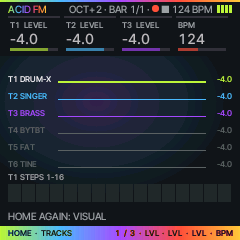
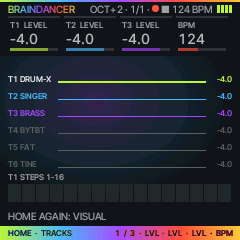
feat: the firmware is Braindancer on the device and over USB
The splash wordmark, HOME's header word, ABOUT, the crash line, the console
banner, the editor's INFO version ("BRAINDANCER v..") and the USB product
strings (BRAINDANCER; the loader BRAINDANCER UPD) say Braindancer. UF_MARK is
30 px (BRAINDANCER across the screen), the splash types a letter every 60 ms,
VISUAL's default name keeps UF_TTL. fm1diag.js accepts BRAINDANCER.

Changed region(s): [[0.0292, 0.0, 0.5542, 0.0583]]

diff --git a/web/fm1diag.js b/web/fm1diag.js
@@ -38,7 +38,7 @@ export function infoVersion(a) {
 export function isJiantInfo(a) {
   const z = a.indexOf(0); if (z < 0) return false;
   const version = String.fromCharCode(...a.slice(0, z));
-  if (!/^(FELUCCA|JIANT|ACID FM) /i.test(version)) return false;
+  if (!/^(FELUCCA|JIANT|ACID FM|BRAINDANCER) /i.test(version)) return false;
   let pos = z + 1; const engines = a[pos]; pos += 5;
   for (let i = 0; i < engines; i++) { const end = a.indexOf(0, pos); if (end < 0) return false; pos = end + 1; }
   const ntrk = a[pos], ext = a.slice(pos + 1);
@@ -52,7 +52,7 @@ export function archiveInfo(a) {
   const engines = a[pos]; pos += 5;
   for (let i = 0; i < engines; i++) { const end = a.indexOf(0, pos); if (end < 0) throw new Error("Invalid INFO"); pos = end + 1; }
   const ext = a.slice(pos + 1);
-  const supported = /^(FELUCCA|JIANT|ACID FM) /i.test(version) && ext[0] === 16 && ext[1] === 0x55 && ext[2] === 1 &&
+  const supported = /^(FELUCCA|JIANT|ACID FM|BRAINDANCER) /i.test(version) && ext[0] === 16 && ext[1] === 0x55 && ext[2] === 1 &&
     ext[4] === 0x4d && ext[5] === 1 && ext[8] === 0x42 && ext[9] === 1 && !!(ext[10] & 1);
   return { version, supported };
 }

diff --git a/tests/ui_test.c b/tests/ui_test.c
@@ -11216,7 +11216,7 @@ static uint32_t head_px(uint16_t c, uint32_t x0, uint32_t x1)   /* pixels of col
 static int test_ux_home_head(void)
 {
     int bad = 0, ok;
-    int32_t lx, lim = 8 + text_w(&UF_HDR, "ACID FM") + 6;
+    int32_t lx, lim = 8 + text_w(&UF_HDR, "BRAINDANCER") + 6;
     char b[40];
     uint16_t bc;
     ui_power_on(); frame();
@@ -11248,10 +11248,10 @@ static int test_ux_home_head(void)
     chain.running = 1; chain.row = 0; chain.config.row[0].slot = 0; chain.config.row[0].bars = 64; chain.remaining = 2;
     (void)ux_home_head(UXH_TRACKS, 0, &lx);
     ux_home_left(b, sizeof b, UXH_TRACKS, 0);
-    printf("ui:   (HOME header, the longest: \"%s\" + REC + transport + LOCK + battery from x %d; ACID FM ends at %d; left out: %u)\n", b, lx, lim - 6, ux_head_drop);
-    ok = lx >= lim && ux_head_drop == 0u && strstr(b, "63/64") != 0;   /* (all of it: nothing left out) */
+    printf("ui:   (HOME header, the longest: \"%s\" + REC + transport + LOCK + battery from x %d; BRAINDANCER ends at %d; left out: %u)\n", b, lx, lim - 6, ux_head_drop);
+    ok = lx >= lim && ux_head_drop <= 2u && ux_head_drop > 0u;   /* (Braindancer 0.7: the longer word leaves no room for the whole of it: the BAR / where is left out, the header never overlaps) */
     song.octave = 1; (void)ux_home_head(UXH_TRACKS, 0, &lx);        /* (OCT+1: the widest octave) */
-    ok &= lx >= lim && ux_head_drop == 0u;
+    ok &= lx >= lim && ux_head_drop <= 2u;
     song.octave = -3;
     ui.force = 1; frame();
     ok &= ux_home_at(UXH_TRACKS) && head_px(UX_ACCENT, 217u, 220u) > 0u && head_px(UX_LINE, 221u, 232u) > 0u &&   /* (low: */
@@ -11263,7 +11263,7 @@ static int test_ux_home_head(void)
     ok &= ux_home_at(UXH_VISUAL) && head_px(UX_ACCENT, 120u, 200u) > 6u;   /* (another track armed: the ring) */
     (void)ux_home_head(UXH_VISUAL, 0, &lx);
     ok &= lx >= lim && ux_head_drop == 0u;
-    bad += check("I3 HOME header: REC (dot / ring), LOCK, low battery drawn on TRACKS and VISUAL; the longest fits beside ACID FM", ok);
+    bad += check("I3 HOME header: REC (dot / ring), LOCK, low battery drawn on TRACKS and VISUAL; the longest fits beside BRAINDANCER", ok);
     chain.running = 0; song.playing = 0; song.rec = 0; song.octave = 0; song.g[G_BPM] = 120;
     ui_power_on();
     return bad;
@@ -11379,7 +11379,7 @@ static int test_ux_visual(void)
 
     ui_power_on(); frame(); press(B_HOME); frame();
     f = ux_vis_name(b);
-    ok = str_eq(b, "ACID FM") && f == &UF_TTL;                      /* no name: ACID FM */
+    ok = str_eq(b, "BRAINDANCER") && f == &UF_TTL;                      /* no name: BRAINDANCER */
     str_cpy(proj_name, "VELVET PYLON", sizeof proj_name);
     f = ux_vis_name(b);
     ok &= str_eq(b, "VELVET PYLON") && text_w(f, b) <= 200;       /* (a long name: no title edge to edge) */
@@ -11418,7 +11418,7 @@ static int test_ux_visual(void)
     press(B_HOME); press(B_HOME); frame();                          /* (GEN, then TRACKS: its footer as before) */
     ux_home_foot(ft, sizeof ft);
     ok &= ux_home_at(UXH_TRACKS) && str_eq(ft, "1 / 3 \xB7 LVL \xB7 LVL \xB7 LVL \xB7 BPM");   /* (3b task 10: KNOB 4 the tempo) */
-    bad += check("3a VISUAL: the name (ACID FM when none; fitted), SECTION . BAR, footer M1..M4, a macro's turn in the status", ok);
+    bad += check("3a VISUAL: the name (BRAINDANCER when none; fitted), SECTION . BAR, footer M1..M4, a macro's turn in the status", ok);
 
     {   /* (polish) ring k its track's (T1 outside .. T6 at the centre): bright on its hits, eased, a silent track's dim */
         uint32_t i, b0;
@@ -11433,8 +11433,16 @@ static int test_ux_visual(void)
         }
         t1 = ux_px(120u, UX_Y_PANEL + 9u);                          /* (T1's ring, the outermost, r ~65; T6's, r ~9.5: under */
         t6 = ux_px(120u, UX_Y_PANEL + 65u);                         /* the name band's scrim) */
-        ok = uxv.b[0] > 120u && uxv.b[2] > 60u && uxv.b[5] == 0u && uxv.b[1] == 0u;
-        ok &= ux_cdist(t6, ux_mix(UX_BG, UX_LINE, 40)) < 8u && ux_cdist(t1, UX_LINE) > 20u;
+        {   /* (Braindancer 0.7: a letter of BRAINDANCER may stand at x 120: the centre row's nearest pixel clear of ink) */
+            uint32_t x, best = 255u;
+            for (x = 110u; x < 131u; x++) {
+                uint32_t d = ux_cdist(ux_px(x, UX_Y_PANEL + 65u), ux_mix(UX_BG, UX_LINE, 40));
+                if (d < best) best = d;
+            }
+            ok = best < 8u && ux_cdist(t6, UX_BG) < 255u;
+        }
+        ok &= uxv.b[0] > 120u && uxv.b[2] > 60u && uxv.b[5] == 0u && uxv.b[1] == 0u;
+        ok &= ux_cdist(t1, UX_LINE) > 20u;
         ok &= ux_px(2u, UX_Y_PANEL + 1u) == UX_BG && ux_px(237u, UX_Y_PANEL + 148u) == UX_BG;   /* (the corners: dark) */
         for (i = 0; i < 6u; i++) {                                  /* each track its own colour, neighbours clearly apart */
             uint32_t c;
@@ -21449,7 +21457,7 @@ static int test_u5_about(void)
     for (r = 0; r < 74; r++)
         for (c = ABOUT_QR_X; c < ABOUT_QR_X + 74; c++)
             ok &= cv_px[r * 240 + c] == host_screen[(UX_Y_KNOBS + ABOUT_Y_QR + r) * 240 + c];
-    bad += check("ACID FM 3c-2 task 5: ABOUT's first screen: the ACID FM wordmark, version, built on JIANT FM and Felucca, AUDIO LOAD, CPU TEST, the QR", ok);
+    bad += check("ACID FM 3c-2 task 5: ABOUT's first screen: the BRAINDANCER wordmark, version, built on JIANT FM and Felucca, AUDIO LOAD, CPU TEST, the QR", ok);
     for (r = 0; r < 20; r++)
         turn(EN_SELECT, 5);
     frame();
@@ -21745,6 +21753,41 @@ static int test_u9_menu(void)
     return bad;
 }
 
+/* (Braindancer 0.7, Task 1) the name on the device: the splash draws BRAINDANCER, its ink inside x 8..231; HOME's header word is
+ * BRAINDANCER (the battery keeps its room: test_ux_home_head's lim); the typed-on frames never leave ink to the right of the
+ * letters typed */
+static int test_r1_name(void)
+{
+    int bad = 0, ok = 1;
+    int32_t r, c, lo = 240, hi = -1;
+    ok &= sizeof SPL_MARK - 1 == 11u && !memcmp(SPL_MARK, "BRAINDANCER", 11);
+    ui_prefs |= PREF_ANIM_OFF;
+    draw_splash();
+    ui_prefs &= ~PREF_ANIM_OFF;
+    for (r = 0; r < SPL_CH; r++)                        /* the wordmark's rows: the strip's 10 .. 10 + UF_MARK.h + 10 */
+        for (c = 0; c < 240; c++)
+            if (r >= 6 && r < 66 && swap16(host_screen[(SPL_Y + r) * 240 + c]) != UX_BG) {
+                if (c < lo) lo = c;
+                if (c > hi) hi = c;
+            }
+    printf("ui:   (splash wordmark ink x %d..%d)\n", lo, hi);
+    ok &= lo >= 8 && hi <= 231 && hi - lo > 150;
+    bad += check("R1 the splash draws BRAINDANCER, its ink inside x 8..231", ok);
+    {
+        int32_t lx, x0 = 8 + text_w(&UF_HDR, "ACID FM") + 2, x1 = 8 + text_w(&UF_HDR, "BRAINDANCER") - 2, ink = 0;
+        ui_power_on(); frame();
+        ui.force = 1; frame();
+        for (r = 3; r < 14; r++)                        /* HOME's header: the word runs on past where ACID FM ended */
+            for (c = x0; c < x1; c++)
+                ink += swap16(host_screen[r * 240 + c]) != UX_BG;
+        (void)ux_home_head(UXH_TRACKS, 0, &lx);
+        ok = ux_home_at(UXH_TRACKS) && ink > 40 && x1 > x0 + 20 && lx >= x1 + 8 && 8 + text_w(&UF_HDR, "BRAINDANCER") <= 232 - UXH_BAT_W - 4 - 40;
+    }
+    bad += check("R1 HOME's header word is BRAINDANCER and leaves its room (the battery, the transport)", ok);
+    ui_power_on();
+    return bad;
+}
+
 int main(void)
 {
     setvbuf(stdout, NULL, _IONBF, 0);
@@ -21985,6 +22028,7 @@ int main(void)
     bad += test_u5_knobs();
     bad += test_u5_more();
     bad += test_u5_about();
+    bad += test_r1_name();
     bad += test_u6_row();                               /* (ACID FM 3c-2 task 6) */
     bad += test_u7_gen();                               /* (ACID FM 3c-2 task 7) */
     bad += test_u7_demo();

diff --git a/firmware/src/ux_splash.c b/firmware/src/ux_splash.c
@@ -1,7 +1,7 @@
 /* SPDX-License-Identifier: GPL-3.0-only */
 /* Copyright (C) 2026 NorfolkHacker */
-/* ACID FM's power-on splash (spec 4.5, the wordmark; main.c fm1_main and web/emu felucca_web.c call it): the blend line,
- * 3 px at y 96, sweeps across left to right; ACID FM in UF_MARK gradient text types on under it a letter at a time; then
+/* Braindancer's power-on splash (spec 4.5, the wordmark; main.c fm1_main and web/emu felucca_web.c call it): the blend line,
+ * 3 px at y 96, sweeps across left to right; BRAINDANCER in UF_MARK gradient text types on under it a letter at a time; then
  * the version and "BY NORFOLKHACKER" in UF_LBL MID. SPL_WRITE ms of that (splash_write, main.c's loop), SPL_HOLD ms shown
  * whole. MENU > ANIMATION OFF draws the last frame at once. One 240 x 108 strip a step, in the constant ux_theme colours:
  * nothing but what settings_init (before the splash) gives. Included by ui_draw.c where JIANT's signature splash was
@@ -12,18 +12,19 @@
 #define SPL_CH 108                                  /* the strip: line at 0 .. 2, wordmark 10 .. 61, labels 70 and 84 */
 #define SPL_LINE_MS 600u                            /* the line across */
 #define SPL_TYPE0 150u                              /* the first letter */
-#define SPL_TYPE_MS 100u                            /* a letter every .. */
+#define SPL_TYPE_MS 60u                             /* a letter every .. (Braindancer 0.7: eleven letters in the same SPL_WRITE; was 100, seven) */
+#define SPL_MARK_DY 10                              /* (Braindancer 0.7) UF_MARK is 30 px (was 52: BRAINDANCER across the screen): the line sits 10 px lower in its band */
 #define SPL_LBL_MS 850u                             /* the labels appear */
-static const char SPL_MARK[] = "ACID FM";
+static const char SPL_MARK[] = "BRAINDANCER";
 static uint8_t spl_anim;                            /* main.c: 1 = the splash to be animated (splash_write) */
 static uint32_t spl_last = ~0u;                     /* the last frame drawn (its state), so a held splash is not sent again */
 
-/* the wordmark, ACID FM in UF_MARK gradient text centred across, its line's top at canvas y (on UX_BG); its left x. (ACID FM 3c-2
+/* the wordmark, BRAINDANCER in UF_MARK gradient text centred across, its line's top at canvas y (on UX_BG); its left x. (ACID FM 3c-2
  * task 5) ABOUT's first screen draws it too (ui_menu.c about_top) */
 static int32_t spl_mark(int32_t y)
 {
     int32_t wx = ink_in(&UF_MARK, SPL_MARK, 240);
-    ux_text_grad(wx, y, &UF_MARK, SPL_MARK, UX_BG);    /* (the gradient spans the whole word: the letters come out of it) */
+    ux_text_grad(wx, y + SPL_MARK_DY, &UF_MARK, SPL_MARK, UX_BG);    /* (the gradient spans the whole word: the letters come out of it) */
     return wx;
 }
 static void splash_frame(uint32_t ms)
@@ -51,7 +52,7 @@ static void splash_frame(uint32_t ms)
                 pre[k] = SPL_MARK[k];
             pre[n] = 0;
             x = wx + text_w(&UF_MARK, pre);
-            cv_rect(x, 10, 240 - x, UF_MARK.h, UX_BG);
+            cv_rect(x, 10 + SPL_MARK_DY, 240 - x, UF_MARK.h, UX_BG);
         }
     }
     if (ms >= SPL_LBL_MS) {

diff --git a/firmware/src/ux_home.c b/firmware/src/ux_home.c
@@ -238,7 +238,7 @@ static uint32_t ux_home_head(uint32_t p, int draw, int32_t *left)
     char tr[16], lf[40];
     uint16_t bc;
     uint32_t k, segs = ux_bat_segs(&bc), drop, rec = (song.rec >> song.sel) & 1u ? 2u : song.rec != 0u;
-    int32_t ty = 3, y0 = ty + UF_HDR_CAP_Y, x = 232 - UXH_BAT_W - 4, lim = 8 + text_w(&UF_HDR, "ACID FM") + 6, xt, xl;
+    int32_t ty = 3, y0 = ty + UF_HDR_CAP_Y, x = 232 - UXH_BAT_W - 4, lim = 8 + text_w(&UF_HDR, "BRAINDANCER") + 6, xt, xl;
     int lock = (ui_prefs & PREF_BPM_LOCK) != 0;
     ux_transport(tr, sizeof tr);
     if (lock) x -= UXH_LOCK_W + 2;
@@ -255,7 +255,7 @@ static uint32_t ux_home_head(uint32_t p, int draw, int32_t *left)
         cv_begin(240, UX_H_LINE + UX_H_HEAD, UX_BG);
         ux_topline();
         GFX_HOOK_ALIGN(0, UX_H_LINE, 0, UX_H_LINE + UX_H_HEAD, AL_V, "header left");
-        ux_text_grad(8, ty, &UF_HDR, "ACID FM", UX_BG);
+        ux_text_grad(8, ty, &UF_HDR, "BRAINDANCER", UX_BG);
         for (k = 0; k < 4u; k++)                        /* the battery */
             cv_rect(sx + (int32_t)k * 4, y0, 3, UF_HDR_CAP_H, k < segs ? bc : UX_LINE);
         if (lock) {                                     /* BPM LOCK: a shackle over a body, 7 x 8 */
@@ -503,7 +503,7 @@ static uint32_t ux_since_shed(void)
 #define UXV_SWELL 160u                                  /* a ring this bright (a hit) is a px wider each side */
 #define UXV_INTRO "RINGS: T1 OUTSIDE \x86 T6 CENTRE"     /* (UF_HDR's arrow, 0x86) */
 #define UXV_INTRO_MS 4000u
-#define UXV_TTL_W 200                                   /* the name in UF_TTL up to 200 px (20 px each side), else UF_VAL */
+#define UXV_TTL_W 224                                   /* the name in UF_TTL up to 224 px (8 px each side; Braindancer 0.7: the default name BRAINDANCER is 221), else UF_VAL */
 static const char *ux_vis_legend(void)                  /* the ring legend while it shows (UXV_INTRO_MS, once), else NULL */
 {
     if (!uxv.intro) {
@@ -561,7 +561,7 @@ static const aafont_t *ux_vis_name(char *b)
     uint32_t i;
     project_cur_name(s);
     if (!s[0])
-        str_cpy(s, "ACID FM", sizeof s);
+        str_cpy(s, "BRAINDANCER", sizeof s);
     for (i = 0; s[i]; i++) {
         char c = s[i];
         b[i] = (c >= 'A' && c <= 'Z') || (c >= '0' && c <= '9') || c == ' ' || c == '-' || c == '.' || c == '/' ? c : ' ';

diff --git a/tools/gen_aa_font.py b/tools/gen_aa_font.py
@@ -8,7 +8,7 @@ tools/build.py generate() with --preset inter-tight).
 
   gen_aa_font.py OUT.h --preset standin|inter-tight|chakra-petch [--tracking EM] [--gamma G] [--kern-min N]
   gen_aa_font.py ux_fonts.h --preset acid   (ACID FM: UF_LBL 8 px @600, UF_HDR 10 @500, UF_VAL 14 @500, UF_TTL 32 @700,
-                UF_MARK 52 @700 of Inter Tight; code 0x86 = the arrow U+2192, 0x87 / 0x88 = play U+25B6 / stop U+25A0
+                UF_MARK 30 @700 of Inter Tight; code 0x86 = the arrow U+2192, 0x87 / 0x88 = play U+25B6 / stop U+25A0
                 (UF_HDR, with ' ( ) , = > [ ] and the ellipsis 0x85 of the status line's messages); the ASCII range
                 of LBL / TTL / MARK is the space only, their characters are extras)
   gen_aa_font.py OUT.h --face NAME=FONT[#index]:PX:FIRST-LAST[+0xNN,...] ...   (explicit faces)
@@ -74,7 +74,7 @@ UF_HDR = UF_TEXT + "\u25b6\u25a0\u25cf\u25cb\u25c6" + "(),=>[]\u2192\u2026?;"   
                                    # (code 0x88), (3c-1 task 8) the dots and the outside clock's diamond (0x89 0x8A 0x8B: ux_widgets.h); the status line's messages: ' ( ) , = > [ ], the arrow (0x86), the ellipsis
                                    # (0x85, ui_say's cut) (tests/ux_msg_scan.py: every message literal drawn there has its glyphs)
 UF_TTL = " -./0123456789ABCDEFGHIJKLMNOPQRSTUVWXYZ"
-UF_MARK = " ACDFIM"                # the wordmark's letters only
+UF_MARK = " ABCDEINR"              # the wordmark's letters only (Braindancer 0.7: BRAINDANCER)
 L_CHARS = " #+-./0123456789ABCDEFGHIJKLMNOPQRSTUVWXY"
 
 
@@ -111,7 +111,7 @@ def preset(name):
                 ("HDR", v + "@500", 10, (32, 32), sparse(UF_HDR), 0.0, 1),
                 ("VAL", v + "@500", 14, (32, 32), sparse(UF_TEXT), 0.0, 1),
                 ("TTL", v + "@700", 32, (32, 32), sparse(UF_TTL), 0.0, 1),
-                ("MARK", v + "@700", 52, (32, 32), sparse(UF_MARK), 0.0, 1)]
+                ("MARK", v + "@700", 30, (32, 32), sparse(UF_MARK), 0.0, 1)]
     raise SystemExit(f"unknown preset {name}")
 
 

diff --git a/tests/usb_desc_test.c b/tests/usb_desc_test.c
@@ -127,16 +127,16 @@ int main(void)
               le16(dev + 2) == 0x0200 && !dev[4] && !dev[5] && dev[6] == (T_LAYOUT == 2));
     check("VID 1209 PID 0001, strings 1 4 (iProduct off Felucca's index 2), one configuration",
           le16(dev + 8) == 0x1209 && le16(dev + 10) == 1 && dev[14] == 1 && dev[15] == 4 && dev[17] == 1);
-    {   /* (ACID FM 0.1) the names a host reads: manufacturer "NorfolkHacker", product "ACID FM" (UTF-16LE), nothing at
+    {   /* (ACID FM 0.1) the names a host reads: manufacturer "NorfolkHacker", product "BRAINDANCER" (UTF-16LE), nothing at
          * index 2 (Windows keeps older names under index 2's name GUID), no serial */
-        static const uint8_t PROD[16] = {16, 3, 'A', 0, 'C', 0, 'I', 0, 'D', 0, ' ', 0, 'F', 0, 'M', 0};
+        static const uint8_t PROD[24] = {24, 3, 'B', 0, 'R', 0, 'A', 0, 'I', 0, 'N', 0, 'D', 0, 'A', 0, 'N', 0, 'C', 0, 'E', 0, 'R', 0};
         static const uint8_t MANU[28] = {28, 3, 'N', 0, 'o', 0, 'r', 0, 'f', 0, 'o', 0, 'l', 0, 'k', 0, 'H', 0, 'a', 0,
                                          'c', 0, 'k', 0, 'e', 0, 'r', 0};
         const uint8_t *s;
         uint16_t sl;
         check("string 0: US English", get_desc(0x0300, &s, &sl) && sl == 4 && s[2] == 0x09 && s[3] == 0x04);
         check("string 1 (manufacturer): \"NorfolkHacker\"", get_desc(0x0301, &s, &sl) && sl == 28 && !memcmp(s, MANU, 28));
-        check("string 4 (product): \"ACID FM\"", get_desc(0x0304, &s, &sl) && sl == 16 && !memcmp(s, PROD, 16));
+        check("string 4 (product): \"BRAINDANCER\"", get_desc(0x0304, &s, &sl) && sl == 24 && !memcmp(s, PROD, 24));
         check("strings 2 (the old product) and 3: none", !get_desc(0x0302, &s, &sl) && !get_desc(0x0303, &s, &sl));
         check("no serial number (iSerial 0)", dev[16] == 0);
     }

diff --git a/firmware/src/usb.c b/firmware/src/usb.c
@@ -485,15 +485,15 @@ static uint8_t usb_cdc_on = FELUCCA_CDC_DEFAULT != 0;      /* the console is pre
 #define UAC_AS_IF (AUD_IF + 2u)
 static const uint8_t STR0[4] = {4, 3, 0x09, 0x04};
 static const uint8_t STR1[] = {28, 3, 'N', 0, 'o', 0, 'r', 0, 'f', 0, 'o', 0, 'l', 0, 'k', 0, 'H', 0, 'a', 0, 'c', 0,
-                               'k', 0, 'e', 0, 'r', 0};   /* (ACID FM 0.1) the installers match /acid ?fm|jiant|felucca/ */
+                               'k', 0, 'e', 0, 'r', 0};   /* (ACID FM 0.1) the installers match /braindancer|acid ?fm|jiant|felucca/ */
 /* the product (USB_STR_PRODUCT): Windows names the MIDI port after it, macOS the device and its port; no interface
- * or jack has a name of its own (iInterface / iJack 0). ACID FM 0.1: "ACID FM"; JIANT 0.7.0..0.9.11: "JIANT FM",
+ * or jack has a name of its own (iInterface / iJack 0). ACID FM 0.1: "ACID FM", Braindancer 0.7: "BRAINDANCER" (the loader "BRAINDANCER UPD"); JIANT 0.7.0..0.9.11: "JIANT FM",
  * 0.9.12..: "JIANT" (index 2 before 0.9.12); Felucca: "Felucca" */
 #ifdef FELUCCA_LOADER
-static const uint8_t STR_PROD[] = {30, 3, 'A', 0, 'C', 0, 'I', 0, 'D', 0, ' ', 0, 'F', 0, 'M', 0, ' ', 0, 'U', 0, 'p', 0,
-                                   'd', 0, 'a', 0, 't', 0, 'e', 0};
+static const uint8_t STR_PROD[] = {32, 3, 'B', 0, 'R', 0, 'A', 0, 'I', 0, 'N', 0, 'D', 0, 'A', 0, 'N', 0, 'C', 0, 'E', 0,
+                                   'R', 0, ' ', 0, 'U', 0, 'P', 0, 'D', 0};
 #else
-static const uint8_t STR_PROD[] = {16, 3, 'A', 0, 'C', 0, 'I', 0, 'D', 0, ' ', 0, 'F', 0, 'M', 0};
+static const uint8_t STR_PROD[] = {24, 3, 'B', 0, 'R', 0, 'A', 0, 'I', 0, 'N', 0, 'D', 0, 'A', 0, 'N', 0, 'C', 0, 'E', 0, 'R', 0};
 #endif
 
 static int get_desc(uint32_t wvalue, const uint8_t **d, uint16_t *l)

diff --git a/tests/built_on_test.py b/tests/built_on_test.py
@@ -64,6 +64,25 @@ for m in BAD.finditer(about):
 for who in ("Juan Jiant", "Hugelton Instruments", "NorfolkHacker"):   # (the credits keep every name)
     if who not in about:
         bad.append(f"ui_menu.c: ABOUT no longer names {who}")
+# (Braindancer 0.7, Task 1) the firmware's own name: no string literal of the device says "ACID FM" (comments keep their history);
+# ABOUT names Braindancer
+for c in sorted((ROOT / "firmware/src").glob("*.c")):
+    for m in re.finditer(r'"((?:[^"\\\n]|\\.)*)"', visible(c.read_text(encoding="utf-8", errors="replace"))):
+        if "ACID FM" in m.group(1):
+            bad.append(f'{c.name}: a string literal says "ACID FM": {m.group(1)[:60]!r}')
+# the USB product strings (usb.c STR_PROD, the app's and the loader's): UTF-16LE, the length byte right
+_usb = (ROOT / "firmware/src/usb.c").read_text(encoding="utf-8")
+_prods = re.findall(r"STR_PROD\[\] = \{([^}]*)\};", _usb, re.S)   # (the loader's first, then the app's)
+if len(_prods) != 2:
+    bad.append("usb.c: STR_PROD is not defined twice (loader, app)")
+for _want, _name, _body in zip(("BRAINDANCER UPD", "BRAINDANCER"), ("loader", "app"), _prods):
+    _m = re.match(r"(.*)", _body, re.S)
+    _b = [x.strip() for x in _m.group(1).split(",")]
+    _txt = "".join(x.strip("'") for x in _b[2::2])
+    if _txt != _want or int(_b[0]) != 2 + 2 * len(_want) or int(_b[1]) != 3 or any(x != "0" for x in _b[3::2]):
+        bad.append(f"usb.c: the {_name} product string is {_txt!r} (length byte {_b[0]}), not {_want!r}")
+if "Braindancer" not in about:
+    bad.append('ui_menu.c: ABOUT does not name Braindancer')
 for f in WEB:
     text = plain((ROOT / f).read_text(encoding="utf-8"), f.endswith(".html"))
     for m in BAD.finditer(text):

diff --git a/firmware/src/ui_menu.c b/firmware/src/ui_menu.c
@@ -255,7 +255,7 @@ static void about_top(int32_t y)
 {
     char b[40];
     uint32_t k;
-    (void)spl_mark(y);                                  /* ACID FM, UF_MARK in the blend (as the splash draws it) */
+    (void)spl_mark(y);                                  /* BRAINDANCER, UF_MARK in the blend (as the splash draws it) */
     cv_text_on(MENU_DOC_X, y + ABOUT_Y_VER, &UF_HDR, FELUCCA_VERSION, UX_TEXT, UX_BG);
     cv_text_r(232, y + ABOUT_Y_VER, &UF_HDR, "BY NORFOLKHACKER", UX_MID, UX_BG);
     cv_text_on(MENU_DOC_X, y + ABOUT_Y_BUILT, &UF_HDR, "Built on JIANT FM and Felucca", UX_TEXT, UX_BG);   /* (3c-1 task 10, spec 5) */
@@ -277,10 +277,10 @@ static int32_t menu_document(int32_t y, int draw)
     if (draw && y + MENU_DOC_H > 0)
         about_top(y);
     y = menu_text("THE PROJECT", y + MENU_DOC_H, UX_VIOLET, draw);
-    y = menu_text("ACID FM, IDM firmware for the MVAVE FM-1, by NorfolkHacker. Built " __DATE__ ".", y, UX_TEXT, draw);
+    y = menu_text("Braindancer, IDM firmware for the MVAVE FM-1, by NorfolkHacker. Built " __DATE__ ".", y, UX_TEXT, draw);
     y = menu_text("Copyright (C) 2026 NorfolkHacker", y, UX_TEXT, draw);
     y = menu_text("Free, GPL-3.0-only, no warranty.", y, UX_TEXT, draw);
-    y = menu_text("ACID FM builds on open firmware for the FM-1: JIANT FM by Juan Jiant "
+    y = menu_text("Braindancer builds on open firmware for the FM-1: JIANT FM by Juan Jiant "
                   "(Copyright (C) 2026 Juan Ignacio Antonucci) and Felucca by Hugelton Instruments.", y, UX_TEXT, draw);
     y = menu_text("Installer, emulator, manual:", y + 4, UX_TEXT, draw);
     y = menu_text("norfolkhacker.github.io/acid-fm", y, UX_MID, draw);

diff --git a/tests/ui_render.c b/tests/ui_render.c
@@ -1104,7 +1104,7 @@ static void setup(int s)
     case S_HOME_IDLE: song.playing = 0; song.batt_raw = 570; ui.hot_col = 1; ui.hot_t = 30; break;
     case S_HOME_VISUAL:                          /* (ACID FM 3a) HOME's second page (HOME again), M1..M4, M2 just turned; */
     case S_HOME_VISUAL_IDLE: {                   /* (task 7) playing mid-bar, a song chain at B bar 3/8, a named project,
-                                                  * the tracks sounding; _IDLE: stopped, no name (ACID FM), silent */
+                                                  * the tracks sounding; _IDLE: stopped, no name (BRAINDANCER), silent */
         uint32_t i;
         macro_v[0] = 40; macro_v[1] = 90; macro_v[2] = 20; macro_v[3] = 64;
         nav_go(SEC_HOME, UXH_VISUAL, 0);
@@ -2239,8 +2239,8 @@ static void draw(int s)
     }
     if (s == S_SPLASH || s == S_SPLASH_MID) {     /* the power-on splash (main.c, before the UI): the wordmark (ux_splash.c); the version
                                                    * shown FELUCCA_VERSION (run_tests.sh: src/felucca.c's). S_SPLASH: whole (spl_anim 0);
-                                                   * S_SPLASH_MID: 450 ms in, the line three quarters across and "ACI" typed */
-        static const char WANT[] = "ACID FM|" FELUCCA_VERSION "|BY NORFOLKHACKER";
+                                                   * S_SPLASH_MID: 450 ms in, the line three quarters across and "BRAIN" typed */
+        static const char WANT[] = "BRAINDANCER|" FELUCCA_VERSION "|BY NORFOLKHACKER";
         uint16_t bg;
         uint32_t x, y, wm = 0, wmr = 0, lbl = 0, ln_l = 0, ln_r = 0, ln_end = 0, row4 = 0;
         splash_seen[0] = 0;

diff --git a/tests/editor_test.c b/tests/editor_test.c
@@ -166,8 +166,8 @@ static int preferences(void)
         host_wire[n0 - 4] == 0x4A && host_wire[n0 - 3] == 1 && host_wire[n0 - 2] == 1 &&   /* (0.6.62) JIANT: the installer */
         host_wire[n - 7] == 0x4F && host_wire[n - 6] == 1 && host_wire[n - 5] == LM_N &&   /* (0.8.5) DRUM lane modes */
         host_wire[n - 4] == 0x59 && host_wire[n - 3] == 1 && host_wire[n - 2] == LYR_LEN - 1u);   /* (0.8.5) LYRIC, 63 */
-    bad += check("INFO names the firmware \"ACID FM \" + version (the web tools key on the prefix)",
-        !memcmp(&host_wire[5], "ACID FM TEST", 12) && !host_wire[17]);   /* (this harness defines FELUCCA_VERSION "TEST") */
+    bad += check("INFO names the firmware \"BRAINDANCER \" + version (the web tools key on the prefix)",
+        !memcmp(&host_wire[5], "BRAINDANCER TEST", 16) && !host_wire[21]);   /* (this harness defines FELUCCA_VERSION "TEST") */
     request(ED_UI_SET, a, 2);
     bad += check("UI_SET sets the palette (ACID, the only one) and reports RAM-only saving",
         host_wire[5] == 3 && settings.palette == UI_ACID_INDEX && T_BG == UI_PALETTES[UI_ACID_INDEX].bg);

diff --git a/tests/ux_font_test.c b/tests/ux_font_test.c
@@ -46,7 +46,7 @@ int main(void)
     const char *all = " #%+-./0123456789:ABCDEFGHIJKLMNOPQRSTUVWXYZabcdefghijklmnopqrstuvwxyz\xB7";
     CHECK(text_w(&UF_VAL, "128") > 0);
     CHECK(text_w(&UF_TTL, "A1") > 0);
-    has(&UF_MARK, "MARK", "ACID FM");
+    has(&UF_MARK, "MARK", "BRAINDANCER");
     has(&UF_LBL, "LBL", " #%+-./0123456789:<>ABCDEFGHIJKLMNOPQRSTUVWXYZ\xB7\x86\x89\x8A\x8B");   /* (3c-1 task 8: GLO > MIDI's dots, diamond) */
     has(&UF_HDR, "HDR", all);
     has(&UF_HDR, "HDR", "'(),=>[]\x85\x86\x87\x88\x89\x8A\x8B");   /* (the status line's messages, the transport) */
@@ -60,7 +60,7 @@ int main(void)
     CHECK(UF_LBL_CAP_H < UF_HDR_CAP_H);
     CHECK(UF_HDR_CAP_H < UF_VAL_CAP_H);
     CHECK(UF_VAL_CAP_H < UF_TTL_CAP_H);
-    CHECK(UF_TTL_CAP_H < UF_MARK_CAP_H);
+    CHECK(UF_VAL_CAP_H < UF_MARK_CAP_H);   /* (Braindancer 0.7: BRAINDANCER fits the screen at 30 px, under UF_TTL) */
     printf("cap heights %d %d %d %d %d\n", UF_LBL_CAP_H, UF_HDR_CAP_H, UF_VAL_CAP_H, UF_TTL_CAP_H, UF_MARK_CAP_H);
     puts(bad ? "ux font: FAILED" : "ux font: ok");
     return bad != 0;
